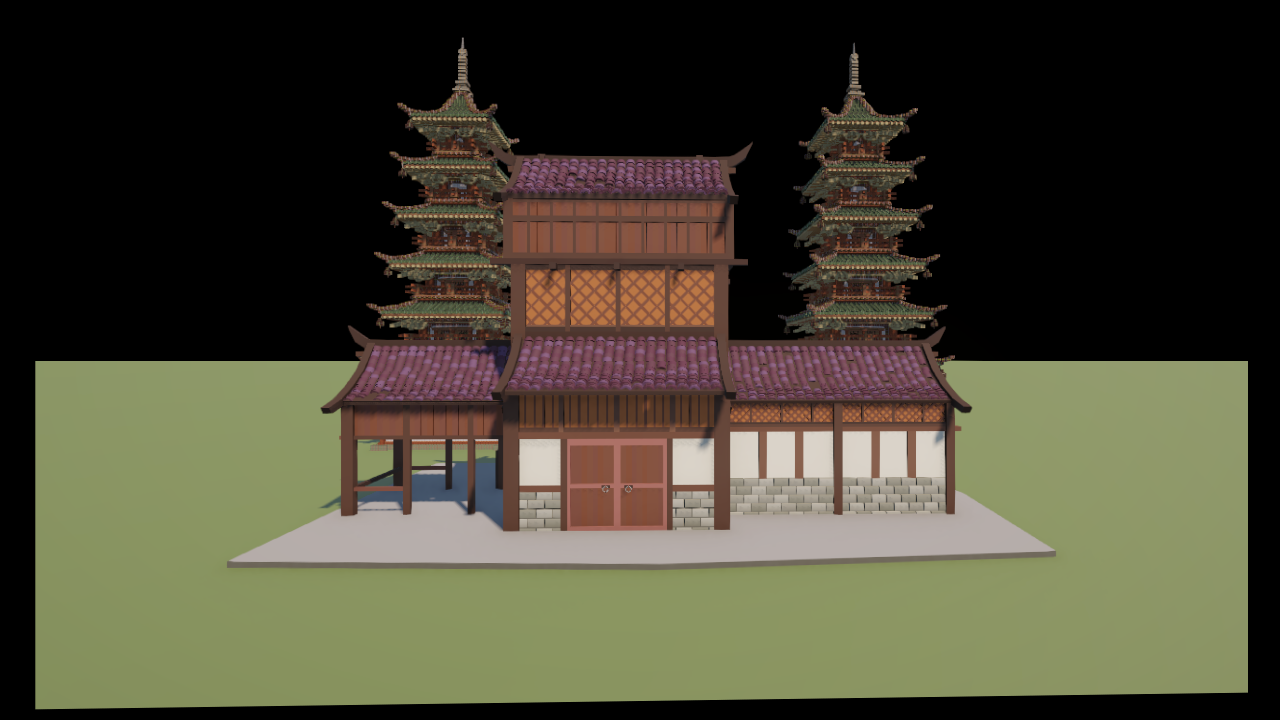
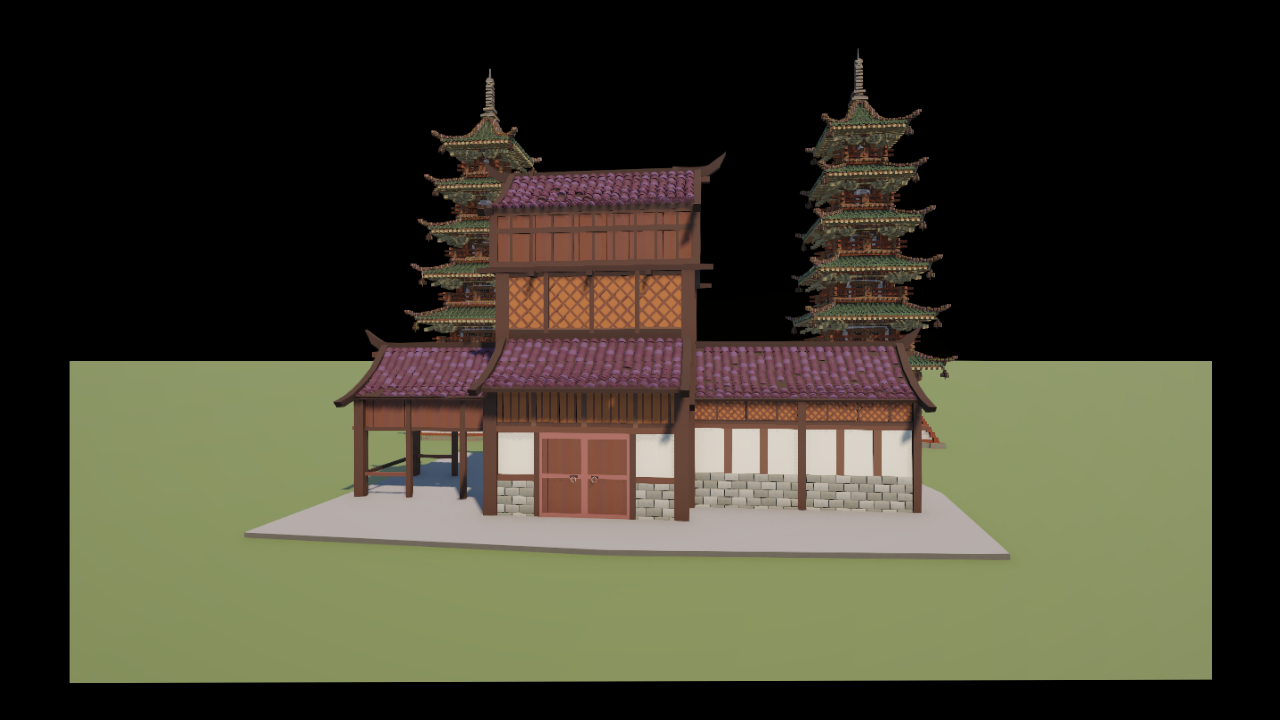
minor fix

Changed region(s): [[0.1562, 0.0611, 0.8438, 0.7944], [0.0, 0.4889, 1.0, 1.0]]

diff --git a/stereo.py b/stereo.py
@@ -13,9 +13,9 @@ cam1_ext = np.array([[1.00000, 0.00000, 0.00000, 0.00000],
 					 [0.00000,	-1.00000,	0.00000,	1.00000],
 					 [0.00000,	0.00000,	-1.00000,	-10.00000],
 					 [0.00000,	0.00000,	0.00000,	1.00000]]) #extrinsic parameters, camera 1
-cam2_ext = np.array([[0.99718, 0.00000, 0.07502, 0.55073], 
+cam2_ext = np.array([[0.99444, 0.00000, 0.10530, 0.55578], 
 					 [0.00000,	-1.00000,	0.00000,	1.00000], 
-					 [0.07502,	0.00000,	-0.99718,	-9.98683], 
+					 [0.10530,	0.00000,	-0.99444,	-9.99706], 
 					 [0.00000,	0.00000,	0.00000,	1.00000]]) #extrinsic parameters, camera 2
 dist_coeffs = None #distortion coefficients
 
@@ -26,10 +26,10 @@ dist_coeffs = None #distortion coefficients
 #0.00000	0.00000	0.00000	1.00000
 
 #ext2
-#0.99718	0.00000	0.07502	0.55073
-#0.00000	-1.00000	0.00000	1.00000
-#0.07502	0.00000	-0.99718	-9.98683
-#0.00000	0.00000	0.00000	1.00000
+# 0.99444	0.00000	0.10530	0.55578
+# 0.00000	-1.00000	0.00000	1.00000
+# 0.10530	0.00000	-0.99444	-9.99706
+# 0.00000	0.00000	0.00000	1.00000
 
 #K
 #623.53830	0.00000	640.00000	0.00000
@@ -103,10 +103,10 @@ def rectify_images(img1, img2, camera_matrix, dist_coeffs, cam1_ext, cam2_ext, s
 
 	#print(rectified1.shape, rectified2.shape)
 
-	# left_out = out_prefix + '_left.png'
-	# right_out = out_prefix + '_right.png'
-	# cv2.imwrite(left_out, rectified1)
-	# cv2.imwrite(right_out, rectified2)
+	left_out = out_prefix + '_left.png'
+	right_out = out_prefix + '_right.png'
+	cv2.imwrite(left_out, rectified1)
+	cv2.imwrite(right_out, rectified2)
 
 	return rectified1, rectified2, P1, P2, Q
 
